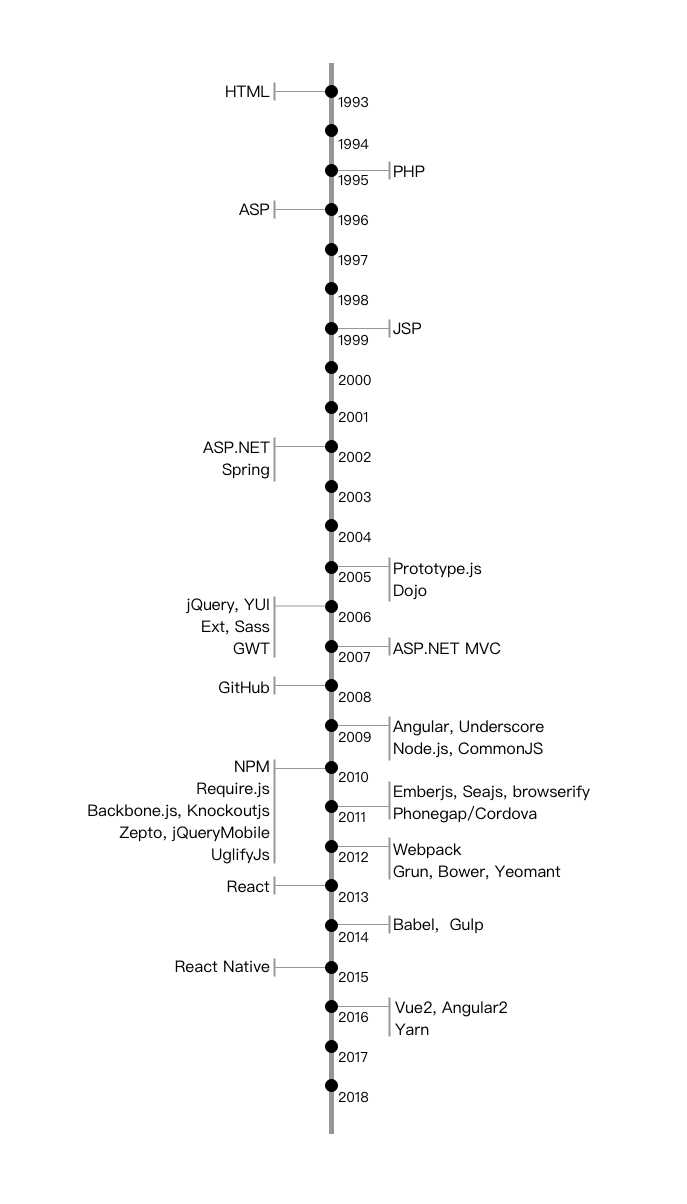
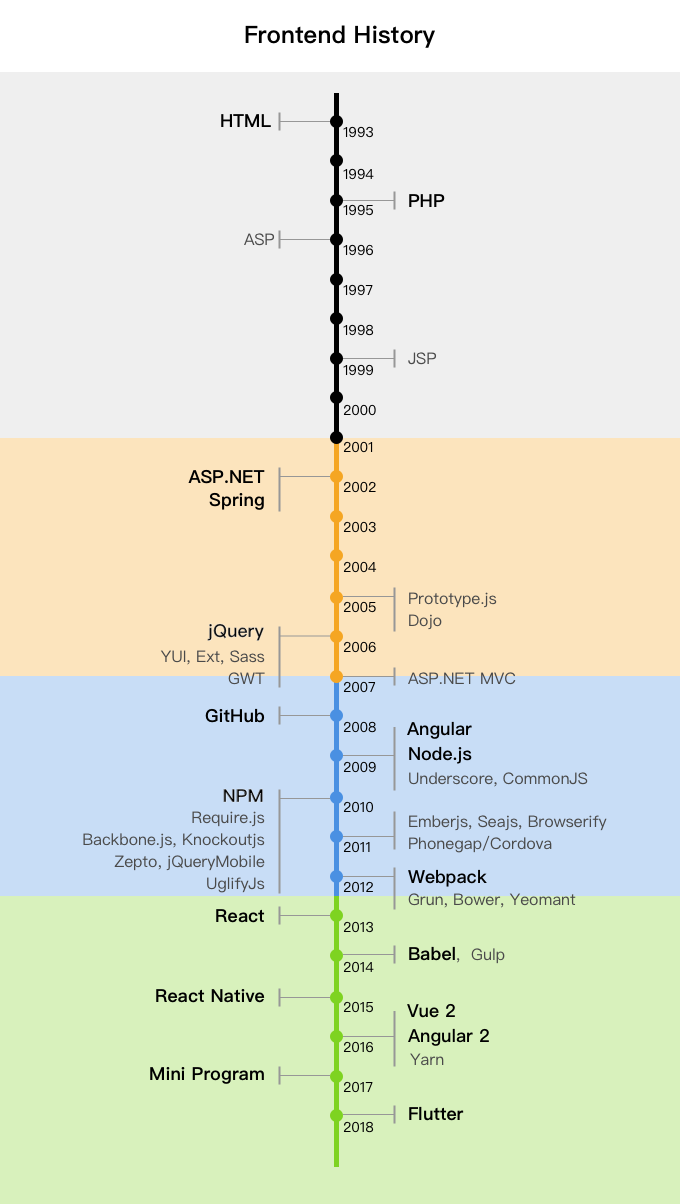
pic

diff --git a/share/frontend-history.md b/share/frontend-history.md
@@ -93,5 +93,7 @@
 * 2016 angular2
 * 2016 vue2
     * 2016 nuxt
+* 2017 mini program
+* 2018 flutter
 
 
